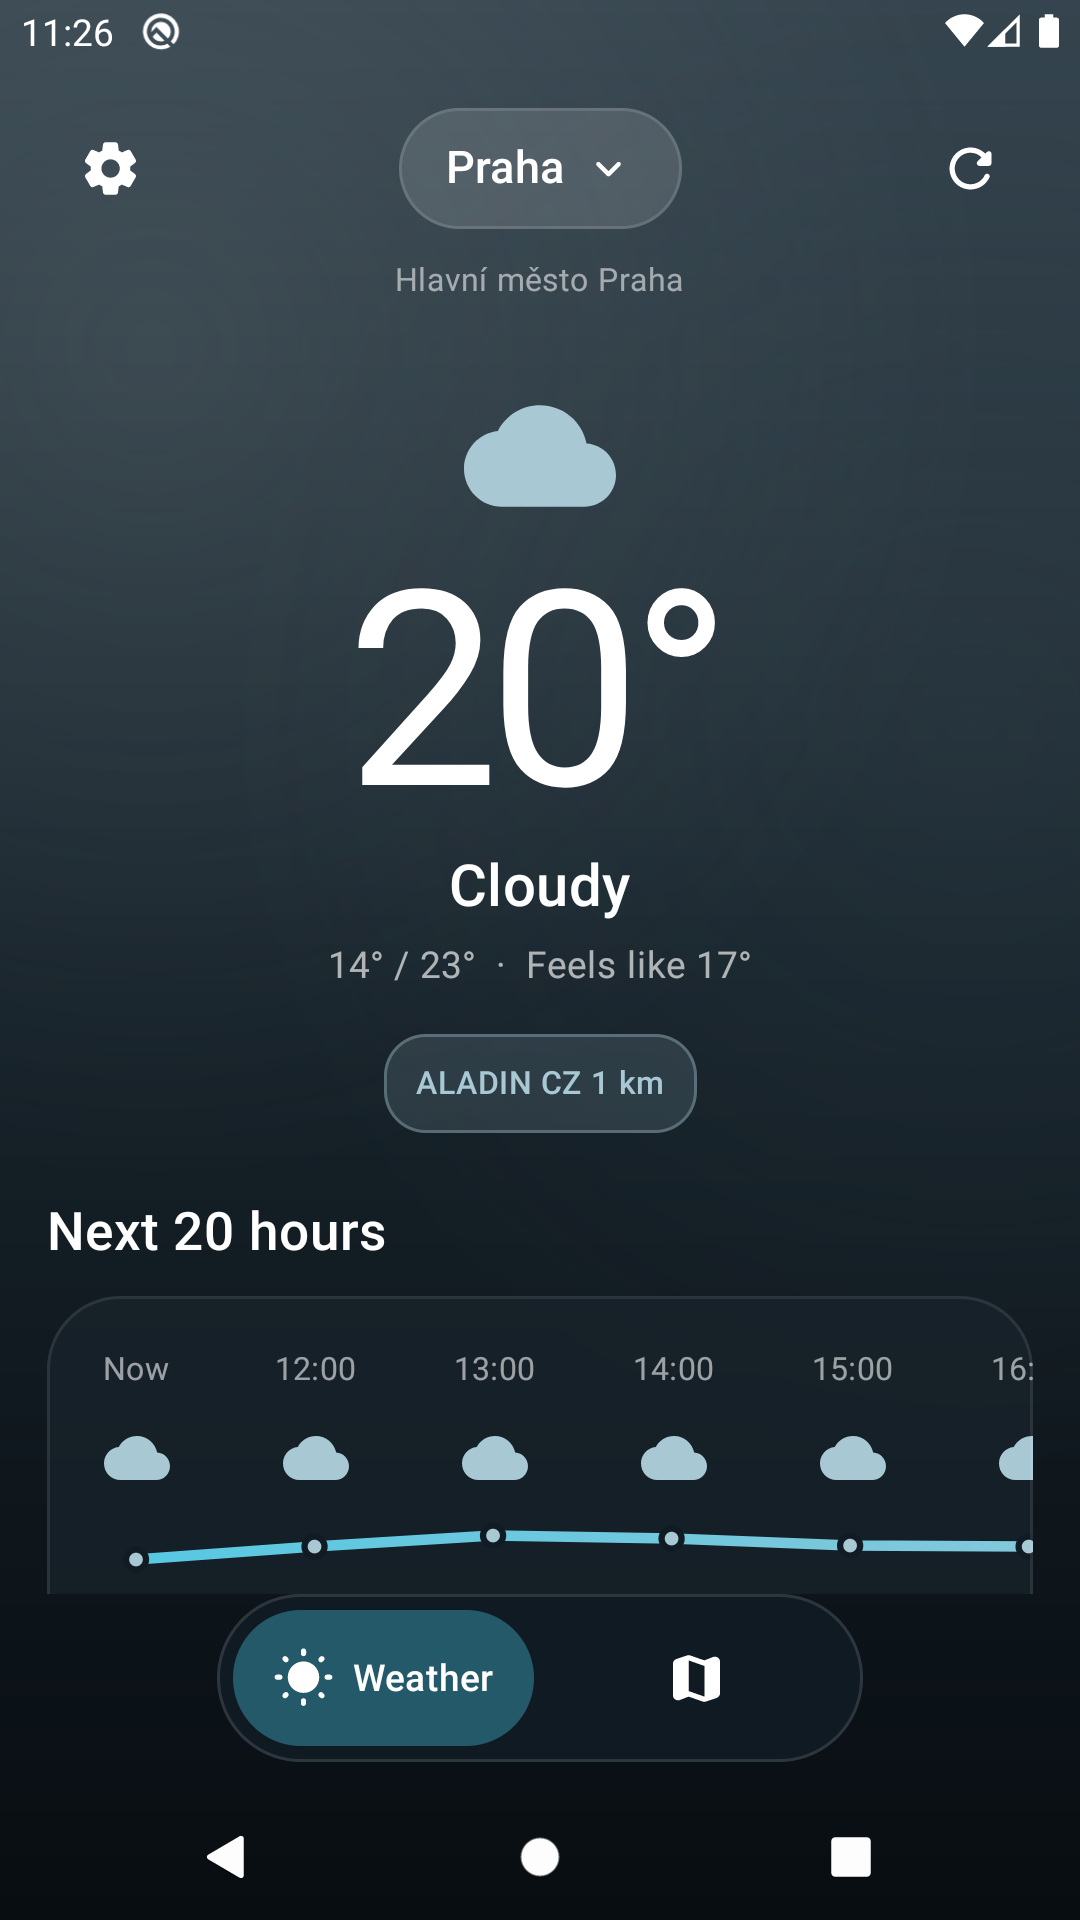
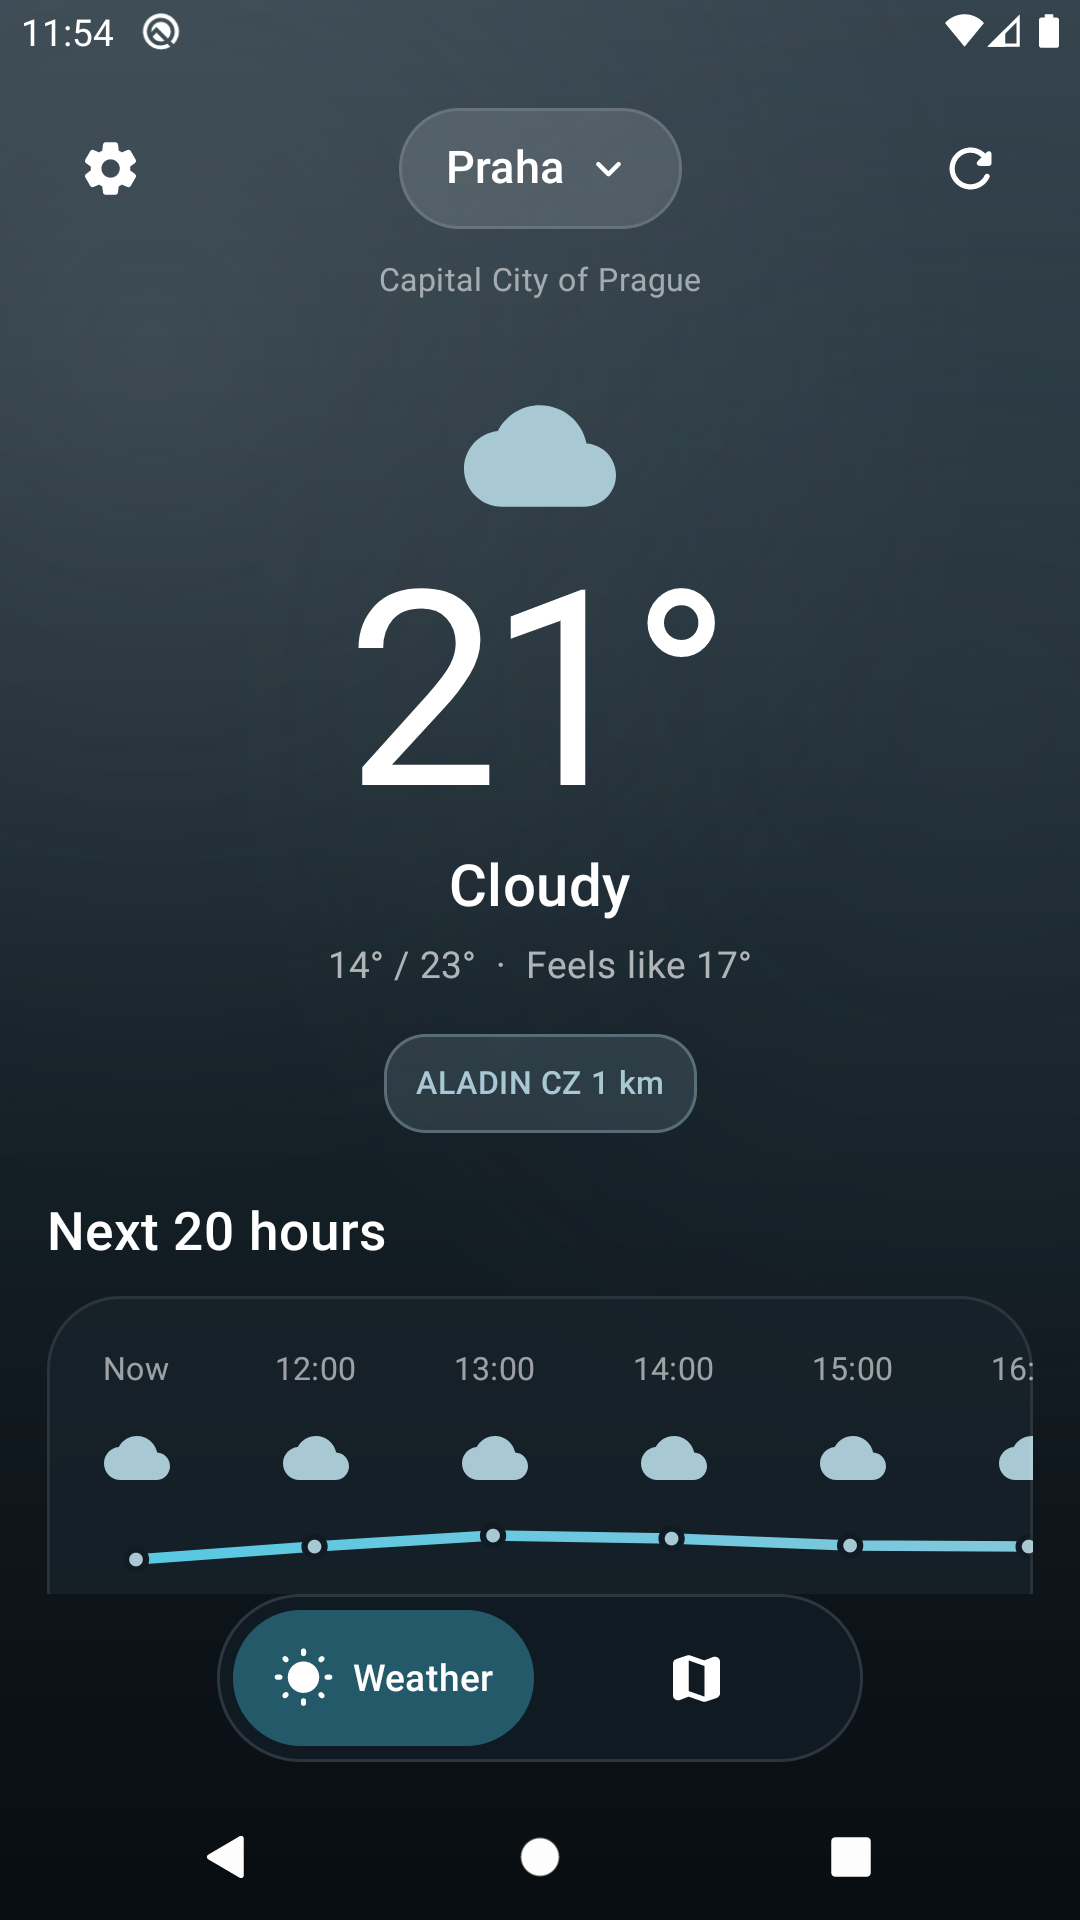
fix(locale): localize location regions

diff --git a/app/src/main/java/cz/majkey/pocasicesko/data/WeatherRepository.kt b/app/src/main/java/cz/majkey/pocasicesko/data/WeatherRepository.kt
@@ -4,6 +4,7 @@ import android.content.Context
 import android.net.Uri
 import androidx.core.content.edit
 import cz.majkey.pocasicesko.BuildConfig
+import cz.majkey.pocasicesko.locale.AppLocale
 import cz.majkey.pocasicesko.widget.WeatherWidgetProvider
 import java.io.IOException
 import java.net.HttpURLConnection
@@ -96,7 +97,7 @@ class WeatherRepository(context: Context) {
                 add(
                     CzechLocation(
                         name = result.getString("name"),
-                        region = result.optString("admin1").ifBlank { "Česko" },
+                        region = result.optString("admin1").ifBlank { REGION_CZECHIA },
                         latitude = result.getDouble("latitude"),
                         longitude = result.getDouble("longitude"),
                     ),
@@ -180,7 +181,7 @@ class WeatherRepository(context: Context) {
         .appendPath("search")
         .appendQueryParameter("name", query)
         .appendQueryParameter("count", "8")
-        .appendQueryParameter("language", "cs")
+        .appendQueryParameter("language", AppLocale.languageTag(appContext))
         .appendQueryParameter("countryCode", "CZ")
         .appendQueryParameter("format", "json")
         .build()
@@ -229,7 +230,7 @@ class WeatherRepository(context: Context) {
 
         val DEFAULT_LOCATION = CzechLocation(
             name = "Praha",
-            region = "Hlavní město Praha",
+            region = REGION_PRAGUE,
             latitude = 50.0755,
             longitude = 14.4378,
         )

diff --git a/app/src/main/java/cz/majkey/pocasicesko/data/DeviceLocationRepository.kt b/app/src/main/java/cz/majkey/pocasicesko/data/DeviceLocationRepository.kt
@@ -13,8 +13,8 @@ import android.location.LocationManager
 import android.os.Bundle
 import android.os.Looper
 import androidx.core.content.ContextCompat
+import cz.majkey.pocasicesko.locale.AppLocale
 import java.io.IOException
-import java.util.Locale
 import kotlin.coroutines.resume
 import kotlin.coroutines.resumeWithException
 import kotlinx.coroutines.Dispatchers
@@ -85,7 +85,7 @@ class DeviceLocationRepository(context: Context) {
     private fun resolveName(location: Location): CzechLocation {
         val address = if (Geocoder.isPresent()) {
             runCatching {
-                Geocoder(appContext, Locale.forLanguageTag("cs-CZ"))
+                Geocoder(appContext, AppLocale.locale(appContext))
                     .getFromLocation(location.latitude, location.longitude, 1)
                     ?.firstOrNull()
             }.getOrNull()
@@ -98,7 +98,7 @@ class DeviceLocationRepository(context: Context) {
             ?: address?.subAdminArea
             ?: adminArea
             ?: "Czechia"
-        val region = adminArea ?: "Czechia"
+        val region = adminArea ?: REGION_CZECHIA
         return CzechLocation(name, region, location.latitude, location.longitude)
     }
 

diff --git a/app/src/main/java/cz/majkey/pocasicesko/locale/AppLocale.kt b/app/src/main/java/cz/majkey/pocasicesko/locale/AppLocale.kt
@@ -22,6 +22,11 @@ internal fun normalizeLanguageTag(tag: String?): String {
     return SupportedLanguage.entries.firstOrNull { it.tag == language }?.tag.orEmpty()
 }
 
+internal fun effectiveLanguageTag(selectedTag: String?, systemTag: String?): String =
+    normalizeLanguageTag(selectedTag).ifBlank {
+        normalizeLanguageTag(systemTag).ifBlank { SupportedLanguage.ENGLISH.tag }
+    }
+
 object AppLocale {
     private const val PREFERENCES = "app_locale"
     private const val LANGUAGE_TAG = "language_tag"
@@ -55,4 +60,11 @@ object AppLocale {
         }
         return context.createConfigurationContext(configuration)
     }
+
+    fun languageTag(context: Context): String = effectiveLanguageTag(
+        context.getSharedPreferences(PREFERENCES, Context.MODE_PRIVATE).getString(LANGUAGE_TAG, null),
+        context.resources.configuration.locales[0].toLanguageTag(),
+    )
+
+    fun locale(context: Context): Locale = Locale.forLanguageTag(languageTag(context))
 }

diff --git a/app/src/main/java/cz/majkey/pocasicesko/ui/LocationRegion.kt b/app/src/main/java/cz/majkey/pocasicesko/ui/LocationRegion.kt
@@ -1,0 +1,15 @@
+package cz.majkey.pocasicesko.ui
+
+import androidx.compose.runtime.Composable
+import androidx.compose.ui.res.stringResource
+import cz.majkey.pocasicesko.R
+import cz.majkey.pocasicesko.data.CzechLocation
+import cz.majkey.pocasicesko.data.REGION_CZECHIA
+import cz.majkey.pocasicesko.data.REGION_PRAGUE
+
+@Composable
+internal fun CzechLocation.localizedRegion(): String = when (region) {
+    REGION_CZECHIA -> stringResource(R.string.location_region_czechia)
+    REGION_PRAGUE, "Hlavní město Praha" -> stringResource(R.string.location_region_prague)
+    else -> region
+}

diff --git a/app/src/test/java/cz/majkey/pocasicesko/locale/AppLocaleTest.kt b/app/src/test/java/cz/majkey/pocasicesko/locale/AppLocaleTest.kt
@@ -14,4 +14,12 @@ class AppLocaleTest {
         assertEquals("", normalizeLanguageTag("pl"))
         assertEquals("", normalizeLanguageTag(null))
     }
+
+    @Test
+    fun usesTheSelectedOrSupportedSystemLanguageForProviderQueries() {
+        assertEquals("en", effectiveLanguageTag("en", "cs-CZ"))
+        assertEquals("cs", effectiveLanguageTag("", "cs-CZ"))
+        assertEquals("de", effectiveLanguageTag(null, "de-AT"))
+        assertEquals("en", effectiveLanguageTag("", "pl-PL"))
+    }
 }

diff --git a/app/src/main/java/cz/majkey/pocasicesko/data/WeatherModels.kt b/app/src/main/java/cz/majkey/pocasicesko/data/WeatherModels.kt
@@ -86,6 +86,9 @@ data class WeatherCondition(
     val kind: WeatherKind,
 )
 
+const val REGION_CZECHIA = "REGION_CZECHIA"
+const val REGION_PRAGUE = "REGION_PRAGUE"
+
 fun conditionFor(code: Int, isDay: Boolean = true): WeatherCondition = when (code) {
     0 -> WeatherCondition(if (isDay) WeatherConditionKey.CLEAR_DAY else WeatherConditionKey.CLEAR_NIGHT, WeatherKind.CLEAR)
     1, 2 -> WeatherCondition(WeatherConditionKey.PARTLY_CLOUDY, WeatherKind.PARTLY_CLOUDY)

diff --git a/app/src/main/java/cz/majkey/pocasicesko/ui/WeatherApp.kt b/app/src/main/java/cz/majkey/pocasicesko/ui/WeatherApp.kt
@@ -658,7 +658,7 @@ private fun LocationRow(
         headlineContent = {
             Text(location.name, maxLines = 1, overflow = TextOverflow.Ellipsis)
         },
-        supportingContent = { Text(location.region) },
+        supportingContent = { Text(location.localizedRegion()) },
         leadingContent = { Icon(Icons.Rounded.LocationOn, contentDescription = null) },
         trailingContent = {
             IconButton(onClick = onFavorite) {

diff --git a/app/src/main/java/cz/majkey/pocasicesko/ui/ForecastScreen.kt b/app/src/main/java/cz/majkey/pocasicesko/ui/ForecastScreen.kt
@@ -196,7 +196,7 @@ private fun LocationHeader(
             }
         }
         Text(
-            text = location.region,
+            text = location.localizedRegion(),
             color = Color.White.copy(alpha = 0.55f),
             fontSize = 12.sp,
             modifier = Modifier.padding(top = 7.dp),

diff --git a/docs/google-play-submission.md b/docs/google-play-submission.md
@@ -26,3 +26,7 @@
 - The optional Buy Me a Coffee action opens an external HTTPS page. It grants no app feature, entitlement, or priority.
 
 The location disclosure covers coordinates sent to Open-Meteo and Android Geocoder only after the user selects **Use my location**. ČHMÚ radar and satellite requests use normal HTTPS connections.
+
+## Assets
+
+`en-US` owns the icon, feature graphic, and phone screenshots. The `cs-CZ`, `de-DE`, `es-ES`, and `fr-FR` listings contain localised text only and omit image directories. Google Play inherits the default English assets for those listings, which avoids mismatched screenshots or feature graphics.
